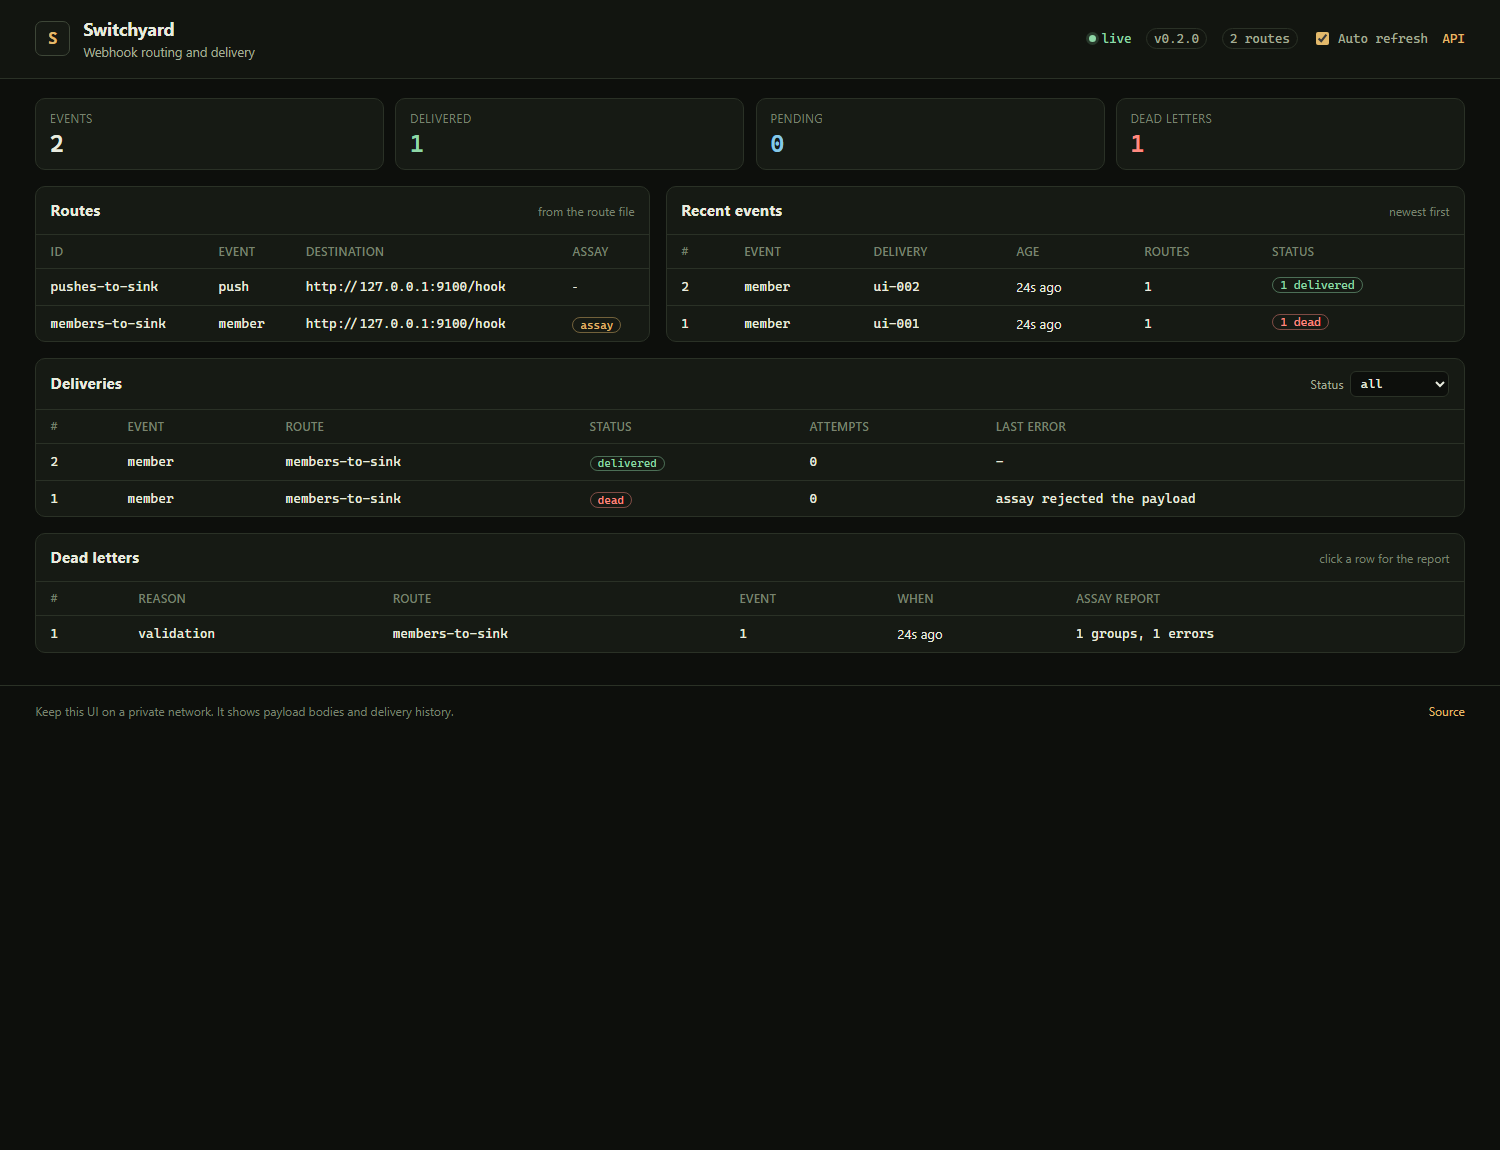
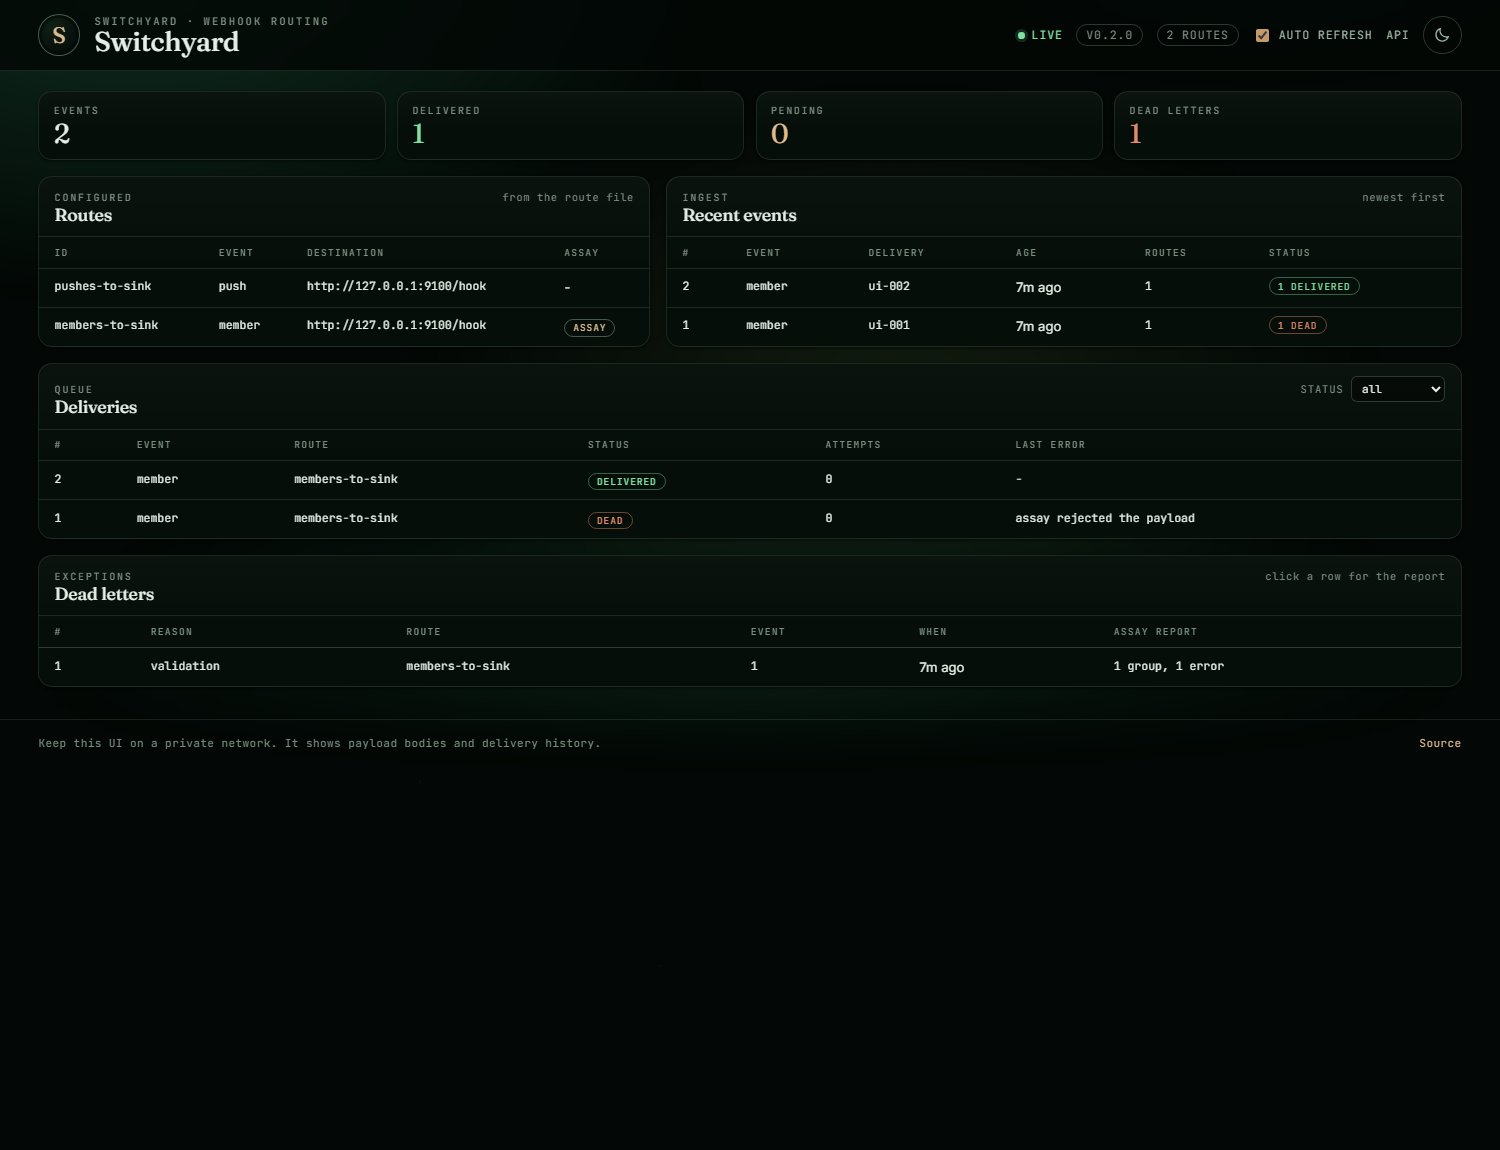
docs(ui): themed screenshots and 0.3.0 changelog

diff --git a/README.md b/README.md
@@ -6,13 +6,15 @@
 > routing, retries with backoff, and a dead-letter queue where every entry carries
 > the grouped validation report that stopped it.
 
-**Status: v0.2.0.** Milestones M1–M3 are built: signed GitHub ingest, routing,
+**Status: v0.3.0.** Milestones M1–M3 are built: signed GitHub ingest, routing,
 reliable delivery and the DLQ. The Assay validation stage (M8 in the Assay
 architecture) is wired through the HTTP API: a payload Assay rejects is dead-lettered
 with its report attached, so the queue answers *why* instead of *what*. The dashboard
 is served by the same process.
 
-![Switchyard dashboard](docs/ui.png)
+![Switchyard dashboard at night](docs/ui.png)
+
+The masthead toggle switches to a warm parchment day scheme and remembers the choice.
 
 ```text
 GitHub ──POST + HMAC──▶  ingest ──▶ events + deliveries (SQLite) ──▶ dispatcher
@@ -118,6 +120,10 @@ It refreshes every five seconds, pauses while a dead letter is open, and reads o
 the local database. Keep it on a private network: it shows payload bodies and delivery
 history. The dashboard uses `/ui/stats`, `/ui/events`, `/ui/deliveries`, `/ui/routes` and
 the existing `/dlq` endpoints.
+
+The interface has two schemes: near-black forest night and warm parchment day, toggled in
+the masthead and remembered in `localStorage`. Type is self-hosted: Fraunces for display,
+Inter for UI and JetBrains Mono for paths and values. No external assets, no CDN.
 
 ## How it works
 
@@ -246,7 +252,7 @@ src/switchyard/
   delivery.py    dispatcher: validate, POST, backoff, dead-letter
   api.py         webhook ingest, dashboard routes, DLQ list/detail/replay
   templates/     the dashboard HTML shell
-  static/        dashboard CSS and JS
+  static/        dashboard CSS, JS and self-hosted fonts
   cli.py         serve, worker, dlq, replay, routes
 examples/        demo routes, schema, payloads, receiver and webhook sender
 tests/           security, config, routing, store, delivery, API, CLI

diff --git a/CHANGELOG.md b/CHANGELOG.md
@@ -4,6 +4,25 @@ All notable changes to Switchyard are recorded here. The format follows
 [Keep a Changelog](https://keepachangelog.com/en/1.1.0/), and the project uses
 [Semantic Versioning](https://semver.org/).
 
+## [0.3.0] - 2026-11-26
+
+### Changed
+
+- **New visual system.** The dashboard now matches the rest of the tooling: near-black
+  forest night and warm parchment day, bronze as the only functional accent, a green
+  aurora atmosphere, and serif display type.
+- Masthead rebuilt with a monogram, an eyebrow label and a sun/moon toggle. The choice is
+  applied before paint by an inline script, persisted in `localStorage`, and reflected in
+  `<meta name="theme-color">`.
+- Stats, panels, tables, pills, the filter and the dead-letter drawer restyled. Panels and
+  stats rise in with a short stagger; `prefers-reduced-motion` disables it.
+
+### Added
+
+- Self-hosted variable fonts: Fraunces, Inter and JetBrains Mono, with their SIL Open
+  Font License files, in `static/fonts`. No external asset or CDN.
+- A `?theme=day` preview parameter and a `?still=1` capture mode that disables motion.
+
 ## [0.2.0] - 2026-11-26
 
 ### Added
